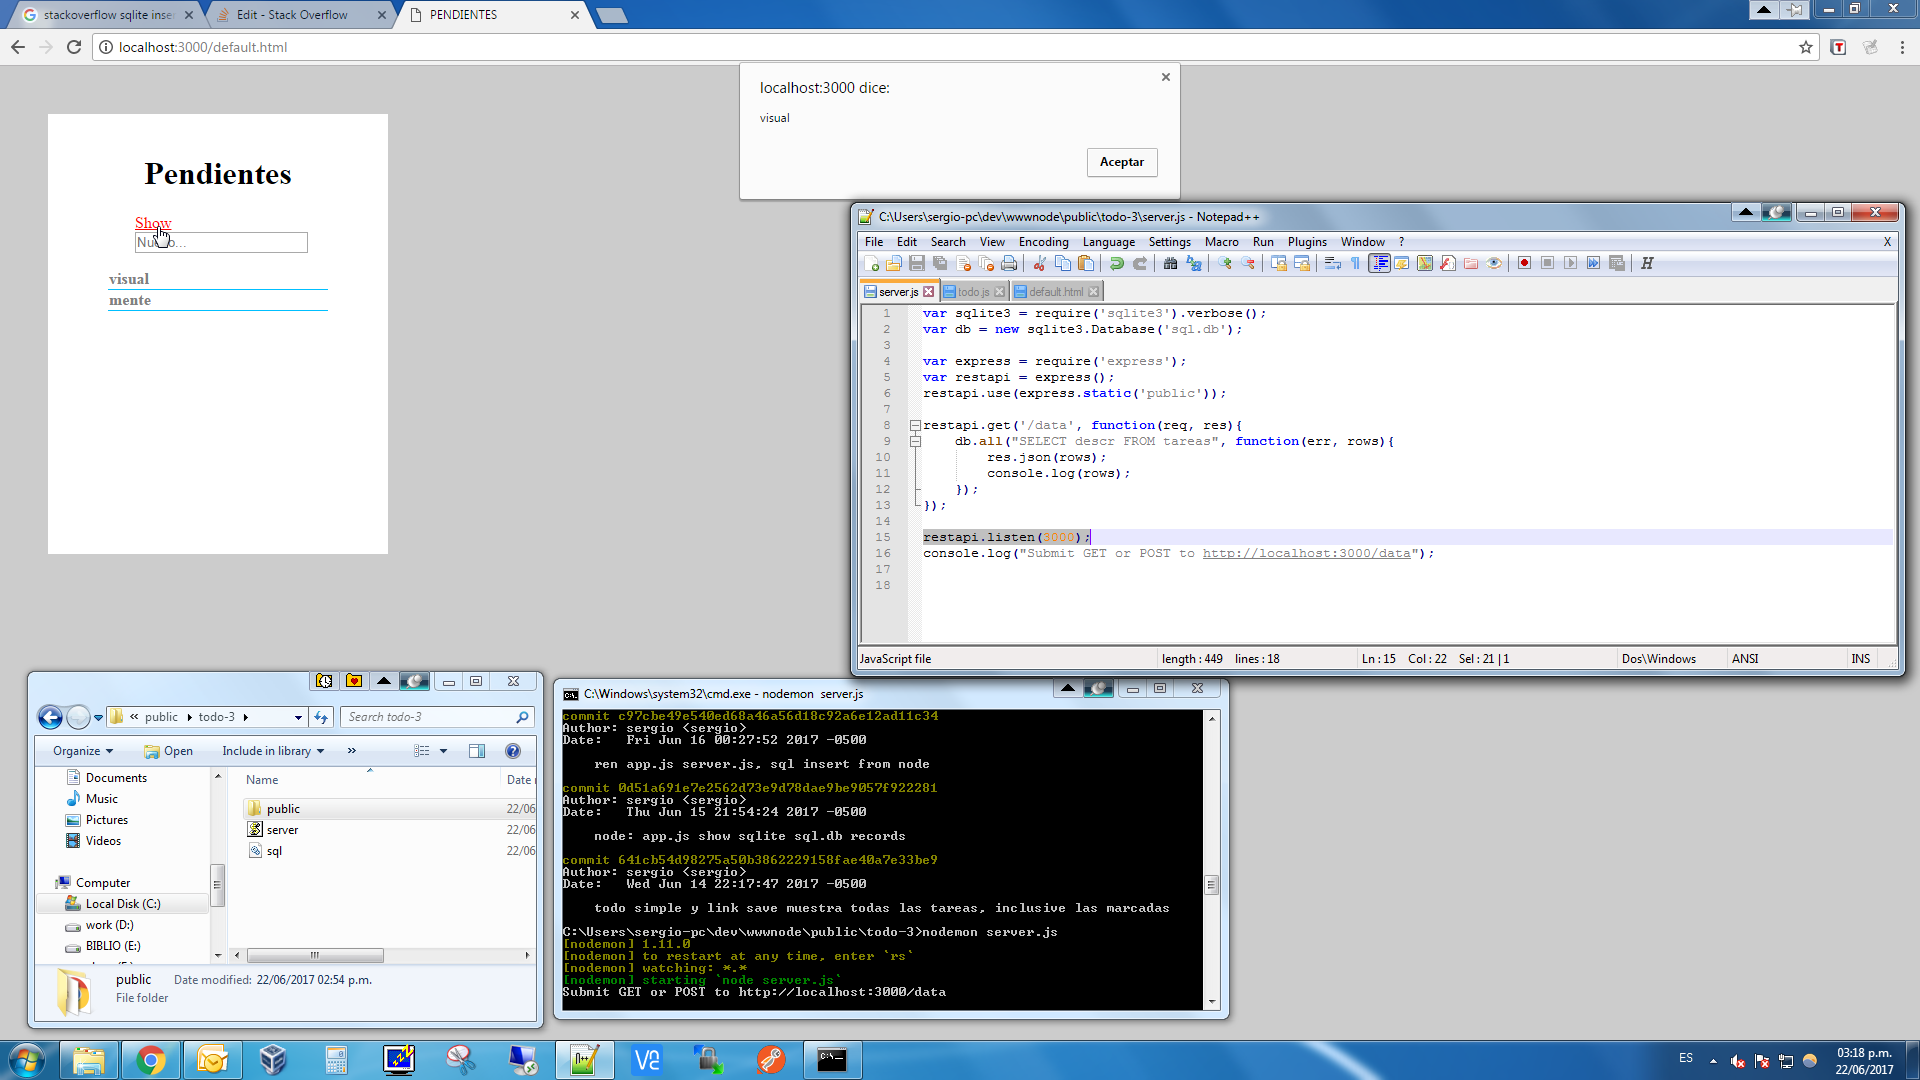
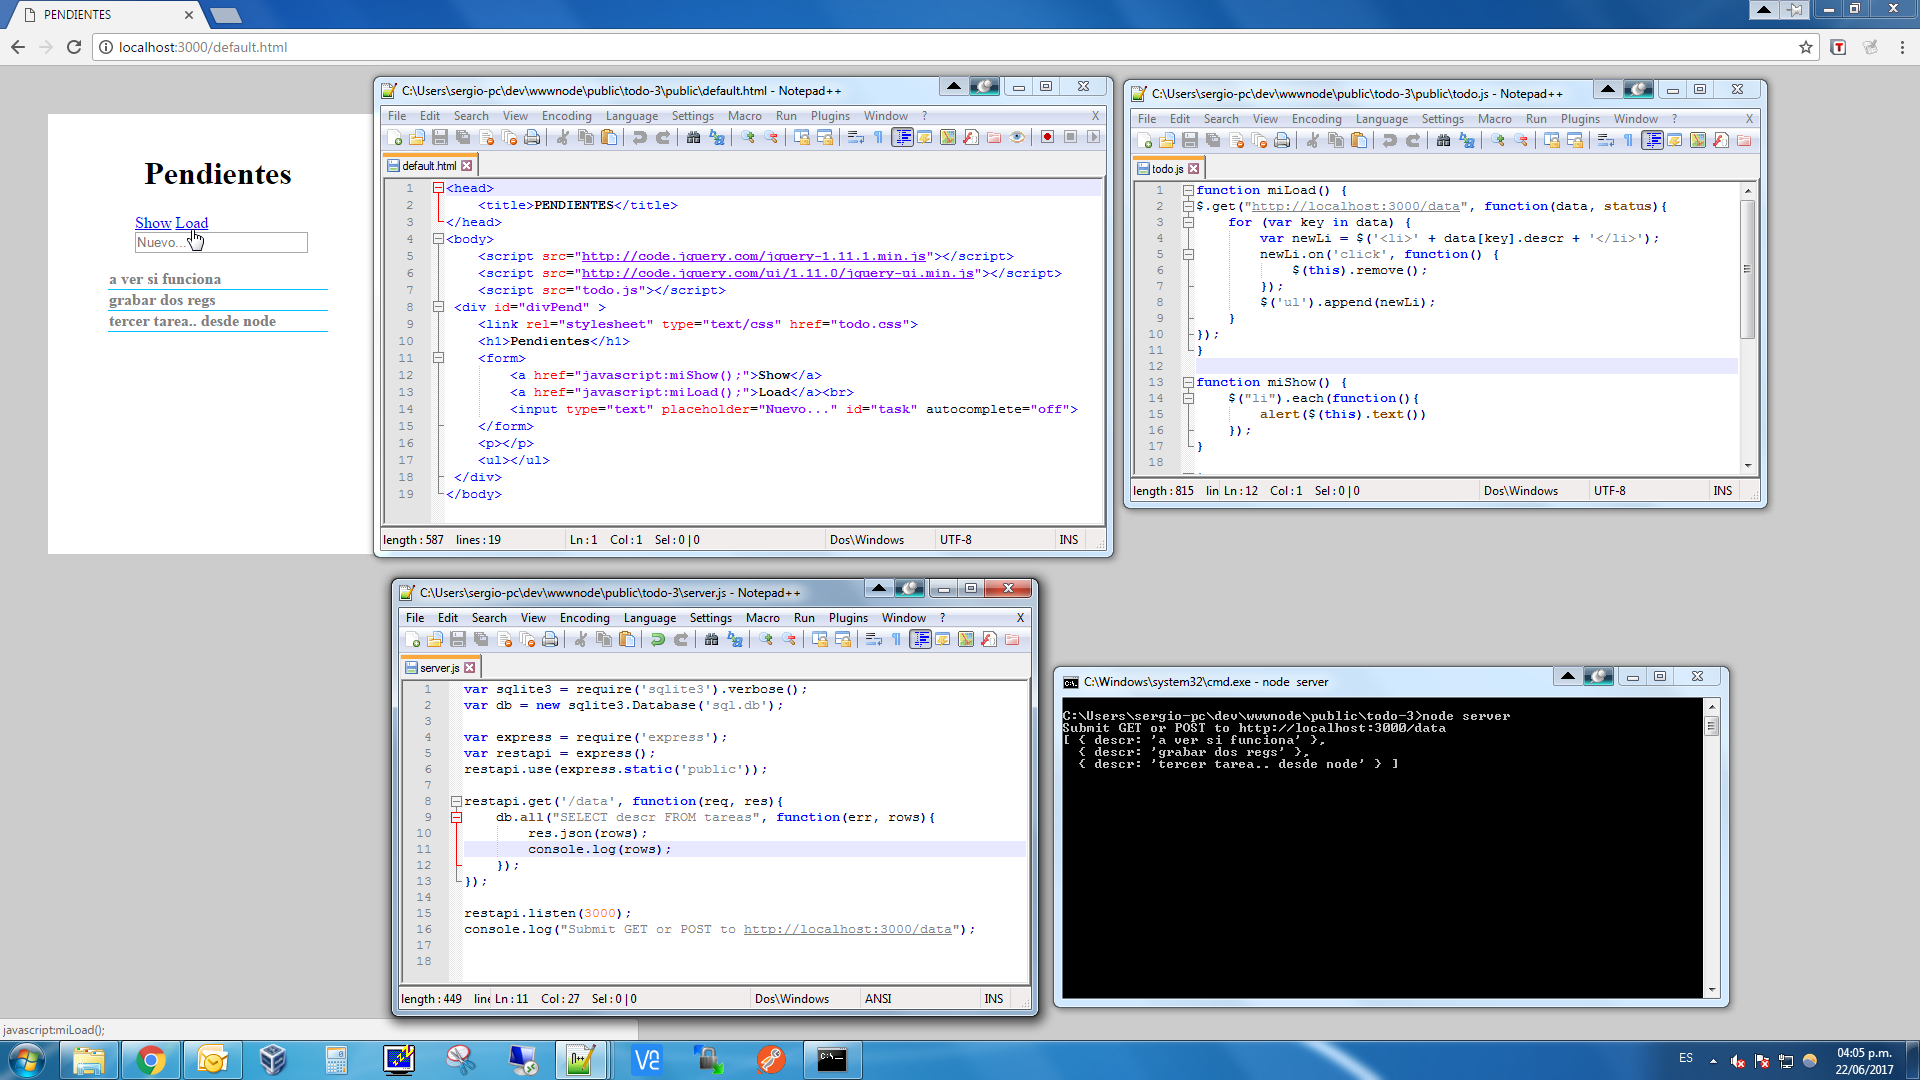
API GET - Load: fill <li> with sqlite

diff --git a/public/todo.js b/public/todo.js
@@ -1,3 +1,15 @@
+function miLoad() {
+$.get("http://localhost:3000/data", function(data, status){
+	for (var key in data) {
+		var newLi = $('<li>' + data[key].descr + '</li>');
+		newLi.on('click', function() {
+			$(this).remove(); 
+		});
+		$('ul').append(newLi); 		
+	}
+});
+}
+
 function miShow() {
     $("li").each(function(){
         alert($(this).text())
@@ -10,7 +22,7 @@ $(document).ready(function() {
             var newTask = $('#task').val();
             var newLi = $('<li>' + newTask + '</li>');
             newLi.on('click', function() {
-            		$(this).remove(); // miShow fixed
+            		$(this).remove(); 
             });
             $('ul').append(newLi); 
             $('#task').val('');

diff --git a/public/default.html b/public/default.html
@@ -5,12 +5,12 @@
     <script src="http://code.jquery.com/jquery-1.11.1.min.js"></script>
     <script src="http://code.jquery.com/ui/1.11.0/jquery-ui.min.js"></script>
     <script src="todo.js"></script>
-	<script src="date.format.js"></script>	
- <div id="container" >
+ <div id="divPend" >
 	<link rel="stylesheet" type="text/css" href="todo.css">
     <h1>Pendientes</h1>
     <form>
-        <a href="javascript:miShow();">Show</a><br>
+        <a href="javascript:miShow();">Show</a>
+		<a href="javascript:miLoad();">Load</a><br>
 		<input type="text" placeholder="Nuevo..." id="task" autocomplete="off">
     </form>
     <p></p>

diff --git a/public/todo.css b/public/todo.css
@@ -1,13 +1,4 @@
-#miTimer, #miCrono {
-     padding: 10px;
-     margin-top: 40px;
-     margin-left: 40px;
-     background-color: white;
-     width: 300px;
-     height: 120px;
-	 float: left;
-}
-#container {
+#divPend {
      padding: 20px;
      margin-top: 40px;
      margin-left: 40px;
@@ -17,7 +8,6 @@
 	 float: left;
 }
 body {
-//font: normal normal 13px/16px "Open Sans", sans-serif;
 	 background: #ccc;
 }
 li {
